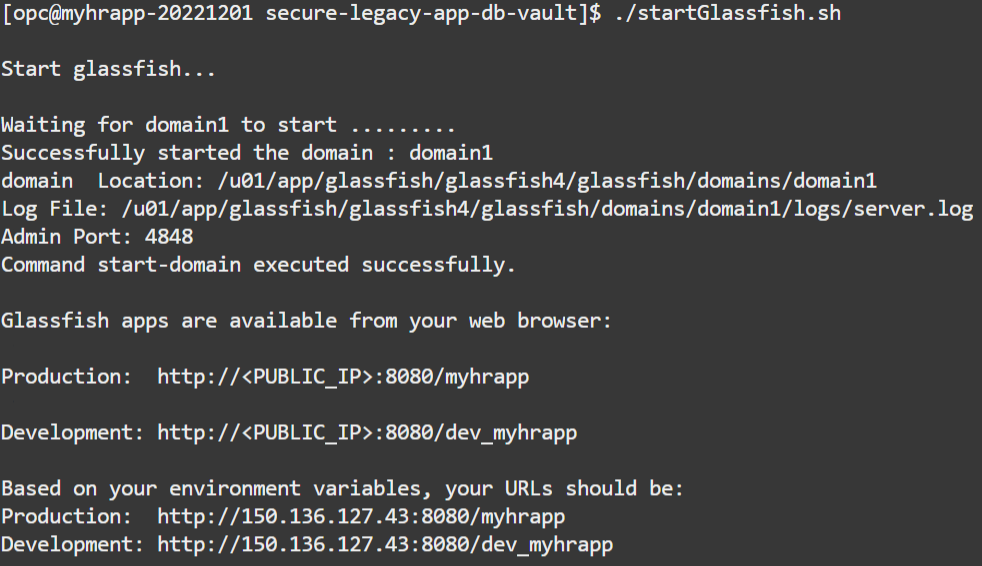
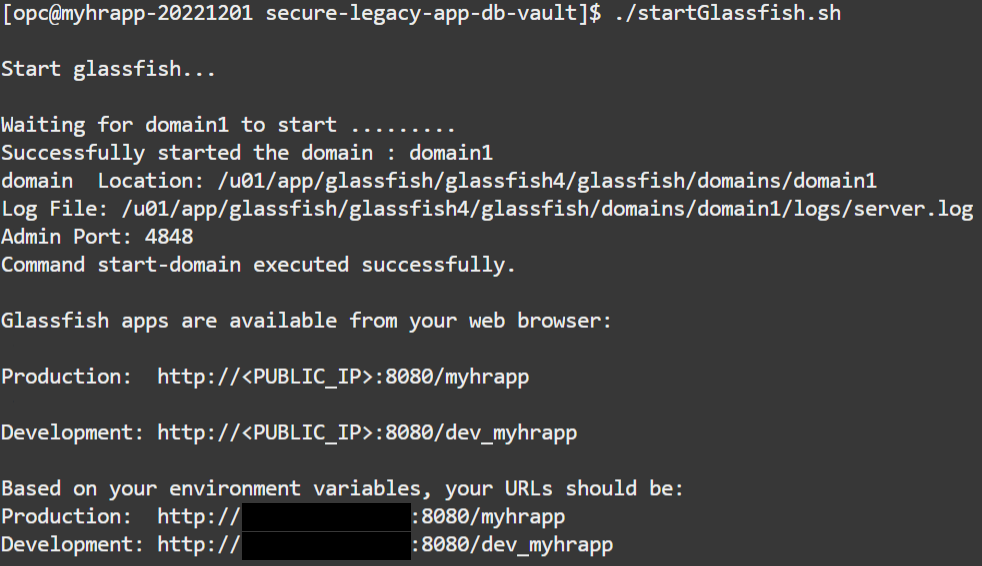
Final updates and changes

Changed region(s): [[0.2444, 0.871, 0.4277, 0.9912]]

diff --git a/database/secure-legacy-application/introduction/introduction.md b/database/secure-legacy-application/introduction/introduction.md
@@ -2,7 +2,7 @@
 
 ## Introduction
 
-One of the primary challenges when moving to the cloud is how to integrate legacy enterprises applications and services into the modern, secure cloud. Oracle Autonomous Database will automatically encrypt data at rest and in-motion.  By adding Oracle Database Vault, customers can have flexibility and peace of mind to securely move legacy services and applications to the Oracle cloud.
+One of the primary challenges when moving to the cloud is how to integrate legacy enterprise applications and services into the modern, secure cloud. Oracle Autonomous Database will automatically encrypt data at rest and in motion. By adding Oracle Database Vault, customers can have flexibility and peace of mind to securely move legacy services and applications to the Oracle cloud.
 
 Customers describe three main concerns when moving to the cloud:
 
@@ -11,7 +11,7 @@ Customers describe three main concerns when moving to the cloud:
 - Security: Can other customers access our data? Have all the security patches been kept up to date?
  
 
-Oracle Autonomous Database, with Oracle Database Vault, solves all three concerns. Autonomous Database is a fault-tolerant and highly-available solution which automatically encrypts your data at-rest and in-motion. Oracle Database Vault implements data security controls within Oracle Database to restrict access to application data by privileged users. Reduce the risk of insider and outside threats and address compliance requirements, including separation of duties.
+Oracle Autonomous Database, with Oracle Database Vault, solves all three concerns. Autonomous Database is a fault-tolerant and highly available solution that automatically encrypts your data at rest and in motion. Oracle Database Vault implements data security controls within Oracle Database to restrict access to application data by privileged users. Reduce the risk of insider and outside threats and address compliance requirements, including separation of duties.
 
 ![Lab Architecture](images/intro-architecture.png)
 

diff --git a/database/secure-legacy-application/load-verify-data/load-verify-data.md b/database/secure-legacy-application/load-verify-data/load-verify-data.md
@@ -67,15 +67,7 @@ This lab assumes you have:
 
     ![Add ingress rule](images/add-ingress.png)
 
-6. Navigate back to your Cloud Shell terminal. Locate the output of the `startGlassfish.sh` script and find both the **Production** and **Development** URLs given to you at the conclusion of the output. You may also copy it from clipboard below. Using two seperate windows on your browser, Make sure to fill both URLs with the instance **public IP**. 
-
-    ```
-    <copy>http://<PUBLIC_IP>:8080/myhrapp</copy>
-    ```
-
-    ```
-    <copy>http://<PUBLIC_IP>:8080/dev_myhrapp</copy>
-    ```
+6. Navigate back to your Cloud Shell terminal. Locate the output of the `startGlassfish.sh` script and find both the **Production** and **Development** URLs given to you at the conclusion of the output. 
 
     ![Start glassfish app](images/glassfish-start.png)
 
